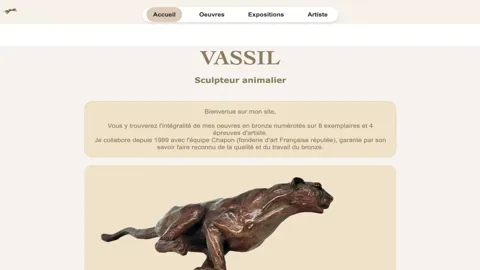
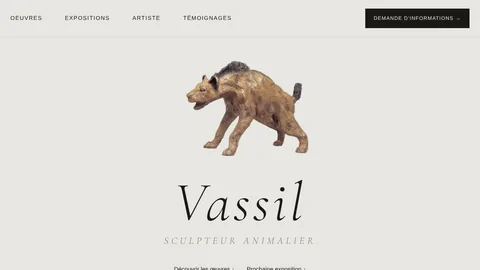
maj contenu #3 + fix bug

diff --git a/src/data/projets.ts b/src/data/projets.ts
@@ -13,6 +13,7 @@ export type Etude = {
   tags: string[];
   modele?: string;
   image?: string;
+  iframe?: string; // site embarqué
   images?: string[]; // aperçu accueil tiré au hasard
   galerie?: Vue[];
   contexte: string;
@@ -44,23 +45,23 @@ export const etudes: Etude[] = [
     titre: "Demicolon",
     categorie: "Logiciel · Swift",
     annee: "2026",
-    cadre: "Projet perso",
+    cadre: "Projet personnel",
     resume: "Mon propre éditeur de notes pour macOS, pensé pour remplacer Pages : léger, natif et à mon image.",
     couleur: "bg-c1",
     tags: ["Swift", "AppKit", "macOS"],
     image: "/previews/demicolon.webp",
     contexte: "Pages, le logiciel de traitement de texte que j'utilisais, me posait problème : il plantait tout le temps et gérait très mal les images et la mise en page. Je voulais un éditeur simple, rapide, sans Electron ni navigateur complet, et que je maîtrise, qui n'a pas ce genre de problèmes. L'idée du nom et de la fonction principale, le 'demicolon', vient d'une vidéo Instagram où quelqu'un utilisait un demicolon dans son livre : une tangente glissée au milieu d'une phrase. Curieux, je me suis renseigné, et j'ai découvert que c'était une blague, quelque chose qui n'existe pas. Le trouvant pratique, j'ai décidé de le rendre réel.",
-    role: "Projet personnel, conçu et développé seul : idée, design de l'interface et du logo.",
+    role: "Projet personnel, conçu et développé seul : idées, design de l'interface et du logo.",
     processus: "J'ai d'abord fait un prototype en web, puis je l'ai abandonné pour repartir en natif (Swift), plus léger. Je l'utilise tous les jours pour prendre des notes, ce qui me sert de test : dès qu'un détail m'agace, je le corrige. J'ai ajouté, en plus des tangentes (demicolons), une colonne d'images (Marginalia) permettant de mieux gérer ses notes, des thèmes, l'insertion de code et de LaTeX, etc.",
-    techniques: "Swift et AppKit (TextKit), sans aucune dépendance externe. Un format de fichier à moi (.dmcl), compact et capable d'embarquer les images, avec chiffrement facultatif. Exports en PDF, DOCX, HTML et Markdown, et une batterie de plus de 400 tests automatisés.",
-    resultat: "Une vraie app que j'utilise au quotidien, qui s'ouvre vite et que je peux faire évoluer comme je veux. J'y ai appris qu'un outil perso demande autant de rigueur qu'un produit : ne jamais perdre une note passe avant toute nouveauté.",
+    techniques: "Swift et AppKit (TextKit), sans aucune dépendance externe. Un format de fichier (.dmcl) compact et capable d'embarquer les images, avec chiffrement et signature numérique possible. Exports en PDF, DJVU, DOCX, HTML et Markdown.",
+    resultat: "Une vraie application que j'utilise au quotidien, qui s'ouvre vite et que je peux faire évoluer comme je veux. J'ai même un format de fichier spécifique à l'application (.DMCL) qui est 9 fois plus léger qu'un fichier DOCX identique, 23 à 25 fois plus léger qu'un PDF et 70 fois plus léger qu'un fichier Pages (sur des documents de petite taille. Sur de grands documents, .dmcl est environ 1.7 fois plus léger que PDF, 2.1 à 2.5 fois plus léger que Pages mais 1.03 fois plus lourd qu'un DOCX compressé).",
   },
   {
     slug: "3cs-browser",
     titre: "3CS Browser",
     categorie: "Logiciel · Swift",
     annee: "2026",
-    cadre: "Projet perso",
+    cadre: "Projet personnel",
     resume: "Un navigateur MacOS à mon image, complet, rapide, customisable.",
     couleur: "bg-c3",
     tags: ["Swift", "SwiftUI", "WebKit"],
@@ -92,6 +93,7 @@ export type Travail = {
   imageMini: string;
   couleur: string;
   lien?: string; // externe, sinon page interne
+  iframe?: string; // site embarqué dans la page
   slug?: string;
   description?: string;
   contexte?: string;
@@ -109,7 +111,7 @@ export const travaux: Travail[] = [
   { titre: "Eishi", categorie: "Branding · Web", annee: "2025", cadre: "Université", image: "/previews/eishi.webp", imageMini: "/previews/mini/eishi.webp", couleur: "hover:bg-c2", lien: "http://eishi.free.nf" },
   { titre: "Vision", categorie: "Logo", annee: "2025", cadre: "Université", image: "/previews/eye.webp", imageMini: "/previews/mini/eye.webp", couleur: "hover:bg-c4", slug: "vision", description: "Création d'un logo autour du motif de l'œil, simple et mémorable." , role: "Conception de l'identité du logo, de la recherche à la déclinaison, seul.", processus: "Recherche autour de la forme de l'œil, tests de plusieurs constructions géométriques, puis simplification jusqu'à un signe lisible en petit comme en grand.", techniques: "Illustrator, construction sur grille, déclinaisons en couleur et en noir et blanc.", resultat: "Un logo net qui fonctionne sur fond clair ou sombre. Il reste à le tester sur un support réel." },
   { titre: "Le Monde de l'Urbex", categorie: "Webdocumentaire", annee: "2025", cadre: "Université", image: "/images/urbex.webp", imageMini: "/images/mini/urbex.webp", couleur: "hover:bg-c6", slug: "urbex", description: "Un webdocumentaire sur l'exploration urbaine : raconter des lieux abandonnés par l'image et le son, sur une page web." , role: "Projet d'équipe, avec les crédits en bas de page. Je me suis occupé de la direction visuelle et du design de l'interface.", processus: "Choix de l'angle éditorial, découpage en chapitres, maquettes de la navigation, puis intégration et ajustements avec l'équipe.", techniques: "Figma pour les maquettes, intégration web, images optimisées pour garder le site fluide malgré des visuels lourds.", resultat: "Un récit qui se parcourt comme un parcours dans un lieu. La coordination d'équipe a été le plus gros apprentissage." },
-  { titre: "Vassil.fr", categorie: "Web · 3D", annee: "2025", cadre: "Stage", image: "/previews/vassil.webp", imageMini: "/previews/mini/vassil.webp", couleur: "hover:bg-c4", slug: "vassil", tags: ["Figma", "Blender", "Web"], description: "Refonte du site d'un sculpteur animalier, avec intégration 3D légère.", contexte: "Vassil est un sculpteur animalier. Son site existant ne montrait pas bien ses pièces, et il voulait une vitrine plus moderne, qui fasse sentir le volume de son travail.", role: "Refonte réalisée pour un client : maquettes dans Figma, direction visuelle, modélisation 3D légère et intégration web. Je me suis occupé du design et de la 3D.", processus: "J'ai d'abord listé ce qui comptait pour lui : montrer les sculptures, rassurer les visiteurs et faciliter la prise de contact. Puis j'ai maquetté la structure, testé plusieurs mises en page et validé avec lui une version avant l'intégration.", techniques: "Maquettes Figma, modèles Blender optimisés pour le web, images compressées et accessibilité soignée (contrastes, navigation clavier). Le défi était de garder l'effet 3D sans alourdir les pages.", resultat: "Un site plus lisible qui met ses sculptures en valeur, validé par le client. J'y ai appris à arbitrer entre ce que je trouve beau et ce que le client et le web permettent." },];
+  { titre: "Vassil.fr", categorie: "Web · 3D", annee: "2025", cadre: "Stage", image: "/previews/vassil.webp", imageMini: "/previews/mini/vassil.webp", couleur: "hover:bg-c4", slug: "vassil", iframe: "https://vassil.fr", tags: ["Figma", "Blender", "Web"], description: "Refonte du site d'un sculpteur animalier, avec intégration 3D légère.", contexte: "Vassil est un sculpteur animalier. Son site existant ne montrait pas bien ses pièces, et il voulait une vitrine plus moderne, qui fasse sentir le volume de son travail.", role: "Refonte réalisée pour un client : maquettes dans Figma, direction visuelle, modélisation 3D légère et intégration web. Je me suis occupé du design et de la 3D.", processus: "J'ai d'abord listé ce qui comptait pour lui : montrer les sculptures, rassurer les visiteurs et faciliter la prise de contact. Puis j'ai maquetté la structure, testé plusieurs mises en page et validé avec lui une version avant l'intégration.", techniques: "Maquettes Figma, modèles Blender optimisés pour le web, images compressées et accessibilité soignée (contrastes, navigation clavier). Le défi était de garder l'effet 3D sans alourdir les pages.", resultat: "Un site plus lisible qui met ses sculptures en valeur, validé par le client. J'y ai appris à arbitrer entre ce que je trouve beau et ce que le client et le web permettent." },];
 
 // Pages projet : études + travaux sans lien externe
 export const pagesProjet: Etude[] = [
@@ -126,6 +128,7 @@ export const pagesProjet: Etude[] = [
       couleur: travail.couleur.replace("hover:", ""),
       tags: travail.tags ?? ["[Outils]"],
       image: travail.image,
+      iframe: travail.iframe,
       galerie: travail.galerie,
       contexte: travail.contexte ?? travail.description ?? "[Contexte.]",
       role: travail.role ?? "[Mon rôle exact.]",

diff --git a/src/styles/global.css b/src/styles/global.css
@@ -224,7 +224,8 @@ html.lenis body {
   }
 }
 
-#lilas-fenetre {
+#lilas-fenetre,
+#apercu-fenetre {
   inset: auto;
   left: 50%;
   top: 50%;
@@ -237,7 +238,17 @@ html.lenis body {
   max-width: calc(100vw - 2rem);
   max-height: calc(100vh - 2rem);
 }
-#lilas-fenetre::backdrop {
+#apercu-fenetre {
+  /* left: 50% limiterait sinon la largeur à la moitié de l'écran */
+  width: max-content;
+  max-width: none;
+  max-height: none;
+}
+#apercu-fenetre img {
+  max-width: none;
+}
+#lilas-fenetre::backdrop,
+#apercu-fenetre::backdrop {
   background: rgb(17 17 17 / 0.35);
 }
 
